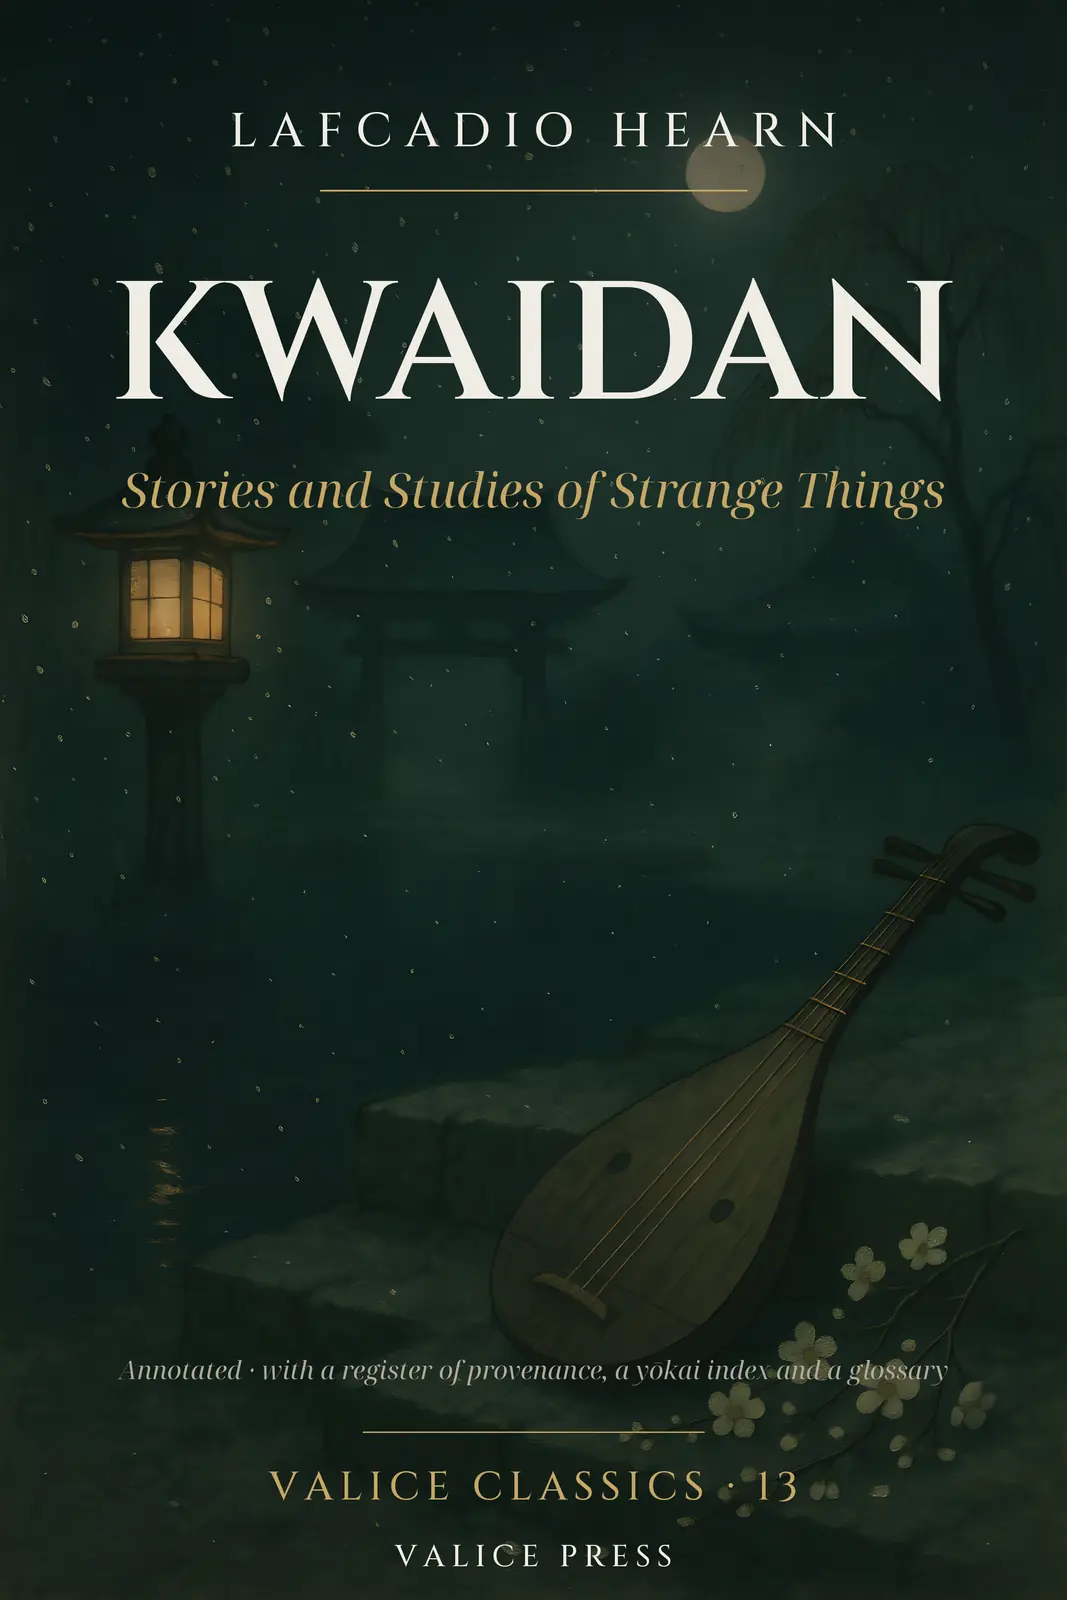
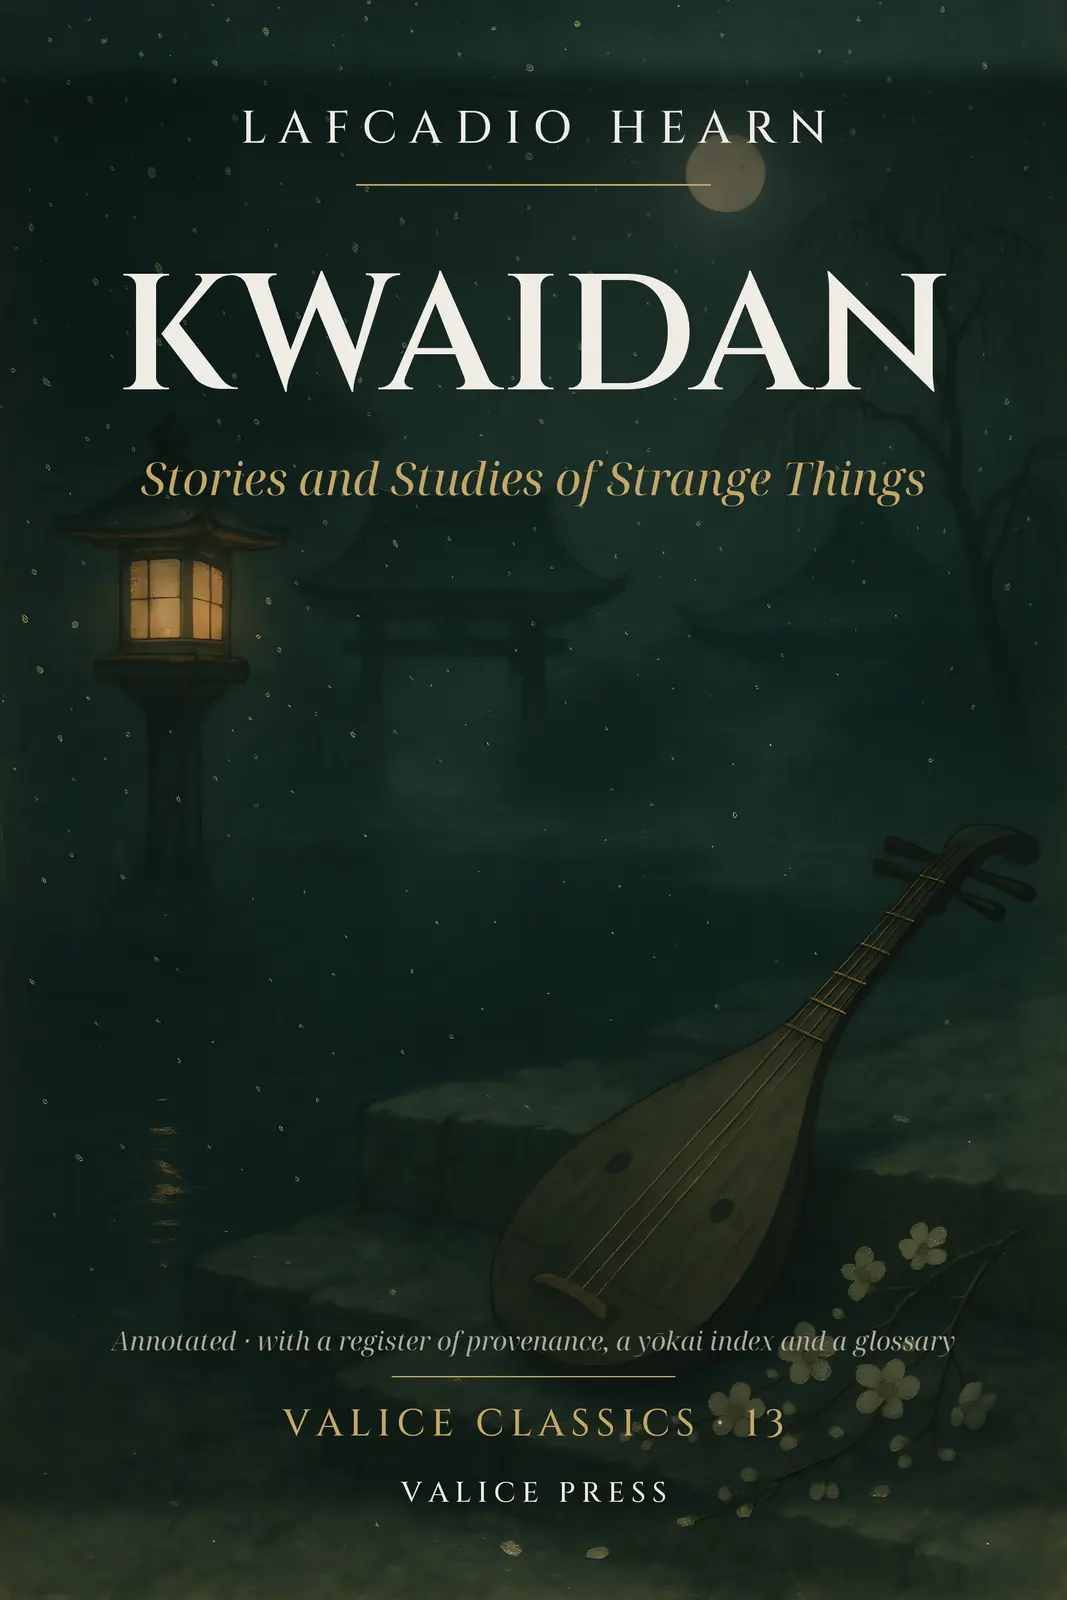
fix(public-domain): PHASE 3 book 1 — close 23 adversarial findings
An independent reviewer was told to prove Kwaidan was not ready and raised 23
defects in half an hour. It was right about nearly all of them.

The P0 was the claim that sells the book. The Register of Provenance said
"four pieces have an origin Hearn states"; he states three. The fourth,
Hi-Mawari, is autobiography and the book's own table said so two pages later —
"Not stated by Hearn". The wrong number was on both back covers, in the printed
introduction, the printed register, the companion sheet, the catalogue row and
the Paddle description, and on the covers it had further decayed into "four
tales", which only reaches twenty if the insect studies are counted as tales.

The worst of the nine P1s lost the imprint into the hardcover fold. The panels
were laid out against the sheet rather than the case, so VALICE PRESS printed a
third of an inch below the bottom fold, on the inside of the boards. That is
COVER_STANDARDS §5's Enigmatica defect word for word — safe area measured from
the trim instead of the outer edge. Panels now compose into a real safe box,
0.716 in from the outer edge and 0.519 in on the spine side.

A Hearn quotation on both covers had a full stop where his comma and continuing
clause should be, closing a sentence he never closed. The quote checker exists
for exactly that and missed it: its record had been written before the build
scripts existed, so the build-script scan had never run, and when it did run it
[…]

diff --git a/src/lib/companions.ts b/src/lib/companions.ts
@@ -1576,9 +1576,10 @@ const KWAIDAN: Companion = {
   bookTitle: "Kwaidan: Stories and Studies of Strange Things",
   state: "book-not-yet-available",
   stateNote:
-    "The Valice edition is built, validated and priced but not yet on sale — " +
-    "creating the payment product is a live write that is held behind a " +
-    "founder action. Everything on this page is free and works today regardless.",
+    "The Valice edition is built, validated and priced, and its payment product " +
+    "exists — what is left is that the edition's own pages have not been deployed " +
+    "yet, so the storefront row is deliberately still held back. Everything on " +
+    "this page is free and works today regardless.",
   intro:
     "Free material for Hearn's seventeen ghost stories and three insect essays: " +
     "the old provinces against the prefectures they became, the creatures named " +

diff --git a/docs/execution/public-domain/PHASE-3-REPORT/01-kwaidan/BOOK_REPORT.md b/docs/execution/public-domain/PHASE-3-REPORT/01-kwaidan/BOOK_REPORT.md
@@ -1,0 +1,208 @@
+# Book 1 — Kwaidan: Stories and Studies of Strange Things
+
+**Valice Classics 13** · Lafcadio Hearn, 1904 · built 2026-09-06 · branch
+`feature/public-domain-phase-3`, **not merged**
+
+## 1 · What it is
+
+The whole of Hearn's *Kwaidan*: seventeen tales, three insect studies, his own notes and
+his own prefatory note, with both plates of the 1904 edition. 138 pages at
+6 × 9. Nothing of Hearn's is cut.
+
+| | |
+|---|---|
+| Source | Project Gutenberg ebook 1210 — a proof-read human transcription, not a scan |
+| Source words printed | 36,053 |
+| Editor words | 9,768 |
+| **Editor share** | **21.02%** against a 20% floor |
+| Pages | 138 (even, as KDP requires) |
+| Claims registered | 23, all verified — one CORRECTED by verification |
+| Quotations checked | 34 — 25 in source, 9 external, **0 not found** |
+
+## 2 · Rights, and two findings that go against the roadmap
+
+**The plates are printed.** The roadmap put Kwaidan's plates under "expected risks":
+*"Kwaidan's Takénouchi plates remain unattributed and are designed out."* That is true of
+the source file, which labels both `[Illustration]` and names nobody. It is not true of the
+artist. Wikipedia's article on the book names Takeuchi Keishū; Wikimedia Commons carries
+Wikidata **Q11545824**, giving his birth as 13 November 1861 and his death as 3 January
+**1942 or 1943**. The uncertainty does not matter: life-plus-seventy expired at the end of
+2012 on the earlier date and 2013 on the later, and the 1904 United States imprint settles
+the US independently. Both plates are reproduced at their true 300 DPI size — 858 × 1000 and
+908 × 1000 px, about three inches across — and are not enlarged beyond it.
+
+**The 1904 introduction is not printed.** The first edition's prefatory matter is two
+pieces and only one is Hearn's:
+
+- Hearn's own note, 154 words, signed **"L. H."**, dated Tōkyō,
+  20 January 1904. **Printed.**
+- A second piece, **677 words** in
+  5 paragraphs, dated **March
+  1904**, on the Russo-Japanese war, quoting Paul Elmer More. **Unsigned in the source, and
+  its author is named in no authority record.** Not printed.
+
+Article 3 says a public-domain text does not clear the layer beside it; Article 4 says GREEN
+is not clearance. A layer whose creator cannot be named has no death year and therefore no
+rights position. The Source Note states the omission and the reasoning on the page, not
+only in a QA file.
+
+## 3 · Source coverage
+
+Phase 2's rule — a build that succeeds while dropping source is a failure — measured rather
+than asserted:
+
+| | |
+|---|---|
+| Body words in the file | 37,076 |
+| Words inside sections | 36,960 (99.69%) |
+| Gap | 116 words — **measured**: 105 inside heading tags, 11 in the contents lists and title page |
+| Boilerplate leaks | **0** — asserted on every build |
+| Accounting | 36,909 − 677 (dropped introduction) − 179 (title page, contents, three container headings) = **36,053 printed** |
+
+17 stories (23,908 w), 3 studies (9,826 w),
+17 note sections (2,165 w).
+
+## 4 · What the apparatus adds
+
+The introduction runs 2,937 words, above the constitution's 1,500 minimum.
+
+- **A head-note before every one of the 20 pieces.**
+- **The Register of Provenance** — the thing no other edition has. Hearn's note says *most*
+  of the tales came from old Japanese books and names five; it never says which tale came
+  from which. Four pieces have a stated origin (one Chinese, one told him by a farmer of
+  Chōfu, one that happened to him, one that is plainly autobiography). **Sixteen are shown
+  as open** rather than assigned to one of his five books on a guess.
+- **A glossary of 45 terms** — every Japanese word he italicises and leaves unexplained.
+- **The Yōkai Register**, 15 entries, naming the creatures by what folklore calls them.
+  "Mujina" is filed under *noppera-bō*: the animal in the title never appears.
+- **A gazetteer of the ten old provinces**, which catches an error the text has carried for
+  a century — it puts Niigata in **Echizen**, and Niigata is in **Echigo**. Hearn's sentence
+  is left exactly as he wrote it and the reader is told.
+- **A chronology**, **five editorial notes** inside Hearn's own, **what has been established
+  since 1904**, a **source note**, and a **28-entry index**.
+
+Article 6's three registers are kept apart: the Spencerian ant sociology and the racial
+explanations are marked as not sustained; the mosquito identification — *Culex fasciatus*,
+now *Aedes aegypti* — is marked as correct, because it is.
+
+## 5 · The formats
+
+| | Paperback | Hardcover | Ebook |
+|---|---|---|---|
+| Pages | 138 | 138 | 138 pp PDF + reflowable EPUB |
+| Trim | 6 × 9 in | 6 × 9 in interior | — |
+| Spine | 0.3108 in (safe 0.186) | **0.5 in** (safe 0.375) | — |
+| Full wrap | 12.5608 × 9.25 in | **14.075 × 10.417 in** | — |
+| Geometry from | KDP calculator, 138 pp row | KDP calculator, 138 pp row | — |
+| List | $14.99 | $29.99 | $8.99 |
+
+Both wrap geometries were read off the official KDP Print Cover Calculator on 2026-09-06 and
+stored in `COMMON-AREA/covers/kdp_geometry.json`. Nothing is interpolated.
+
+## 6 · The cover
+
+Artwork generated with **gpt-image-1** (1024 × 1536, quality high, $0.2496, recorded in
+`valice-house/cost/ledger.jsonl`). **The prompt contains no text and the model rendered
+none**; the title, author, series line and imprint are set in the layout in Cinzel and Noto
+Serif Display, which is COVER_STANDARDS §2.2.
+
+| | |
+|---|---|
+| Native artwork ppi at printed panel width | **167.2** — recorded, not dressed up as 300 |
+| Files | true 300 DPI rasters, 4× Real-ESRGAN then LANCZOS |
+| 150 px thumbnail contrast | 1.0 |
+| Title band | 24.0% of cover height — below the 25% proxy because KWAIDAN is one word; thumbnail legibility measured instead |
+| **Barcode box** | **clear — 0 bright pixels** in the 2.0 × 1.2 in box. Reserved in the composition, not repaired afterwards |
+| ICC | sRGB embedded |
+
+## 7 · Ebook and companion
+
+EPUB 3, **EPUBCheck 0 fatals / 0 errors / 0 warnings**, 37 documents,
+36 nav entries, both plates included. The cover is declared three ways —
+`properties="cover-image"`, a legacy `<meta name="cover">`, and `cover.xhtml` first in the
+spine — because Phase 1 shipped five EPUBs with **no cover at all**.
+
+The companion is four printable sheets at `valicepress.com/companion/kwaidan`: the Provinces
+card, the Yōkai cards, the Register of Provenance, and a sheet for playing
+*hyakumonogatari kaidankai* with seventeen tales instead of a hundred. The printed QR is
+2.55 in — **33.7% of the usable page height**,
+against a 25% floor — at 385.9 effective DPI, and it was decoded
+independently with OpenCV: `https://valicepress.com/companion/kwaidan`, which matches the printed URL.
+
+## 8 · Commerce
+
+| | |
+|---|---|
+| Paddle product | `pro_01m1v4n7tthzcxjvp08fzkkt5t` |
+| Paddle price | `pri_01m1v4n80k6g2tba6wt8882ehf` — $8.99, **live** |
+| Tax category | `standard`, not `ebooks` — the account is not approved. FOUNDER **F-029** |
+| R2 masters | `books/kwaidan/master/v1/master.pdf` and `.epub` in `bookstore-masters-dev` |
+| R2 verified | read back and hashed: **byte-identical** to the local files |
+| Storefront | `public/images/books/kwaidan.webp`, 1067 × 1600, 46 KB |
+| Catalogue | row added; `websiteStatus: "draft"` **on purpose** — see below |
+
+**Why the row is still draft.** The Paddle product exists and the ebook format is marked
+available, but Phase 3 is not merged and must not be. Publishing the row would write a
+book into the production database whose page code, cover and companion sheets are not
+deployed, and the reader would meet broken images and a 404 companion. Database-write
+authorisation is not deployment authorisation, and this is where the two separate.
+
+## 9 · What is NOT done
+
+- **No KDP upload.** No ASIN, no ISBN, no review, no rank appears anywhere.
+  `KDP/KDP_UPLOAD_HANDBOOK.html` names every file and field for both print formats.
+- **Gate 2 unsigned.** Prepared, with the two findings above set out for ratification —
+  FOUNDER **F-030**.
+- **Not deployed.** Deliberately, per §44.
+
+## 10 · The adversarial review
+
+An independent reviewer, which did not write the book, was given one instruction: **prove
+this book is not ready**. It raised **23 defects** in
+about half an hour, and it was right about nearly all of them. The book that shipped is not
+the book it reviewed.
+
+**The P0.** The edition's headline claim — the thing that makes it worth buying — said
+*"four pieces have an origin Hearn states, and sixteen do not"*. Hearn states an origin for
+**three**. The fourth, *Hi-Mawari*, is plainly autobiography and the book's own table said
+so two pages later: *"Not stated by Hearn"*. The wrong number was on the paperback back
+cover, the hardcover back cover, the printed introduction, the printed register, the
+companion sheet, the catalogue row and the Paddle description — seven surfaces, and on the
+covers it had further degraded into "four **tales**", which only adds to twenty if the three
+insect studies are counted as tales. All seven are corrected.
+
+**The worst of the nine P1s.** The hardcover laid its type out against the sheet instead of
+against the case, so *VALICE PRESS* sat **0.23–0.36 in below the bottom fold** — printed on
+the inside of the boards, invisible on the finished book. This is COVER_STANDARDS §5's
+recorded Enigmatica defect, verbatim: *"safe area measured from the trim instead of the
+outer edge"*. The panels now compose into a real safe box, inset **0.716 in** from the outer
+edge — the exact figure §5 names — and **0.519 in** on the spine side to clear the hinge.
+
+**The others worth naming.** A Hearn quotation on both back covers had a full stop
+substituted for his comma and continuing clause, closing a sentence he did not close, inside
+quotation marks, with no ellipsis. The quote checker exists to catch precisely that and did
+not, because the record had been produced before the build scripts existed and the
+build-script scan had never run; the checker also drowned its real finding in 32 false
+positives on HTML attributes. Both are fixed and the record is now reproducible. The
+apparatus claimed Hearn *"identifies"* his mosquito as *Culex fasciatus*; he wrote that it
+*"much resembles"* what Howard calls *Stegomyia fasciata*, and named the Stegomyia first —
+converting his hedge into a firm claim is exactly what Article 6 forbids, and C-008 is
+marked **VERIFIED — CORRECTED** rather than quietly rewritten. A sentence saying Hearn was
+right about mosquitoes *"forty years before it was fashionable"* was false and contradicted
+the book's own next section; it is cut. Nine checkable statements were not in
+`CLAIMS.jsonl`; seven are now registered, and two of those turned out to be **wrong** —
+"twenty years as a newspaperman" was fifteen, and "two provinces down the coast" was three.
+
+**What was not fixed, and why.** Two findings are recorded as Founder decisions rather than
+changed by the factory: the cover is a painted scene where COVER_STANDARDS gives the series
+a typographic identity, and its title band is 23.7% against a 25% rule that a one-word title
+cannot meet without printing KWAI over DAN. Both are **F-031**. One finding — a blank final
+leaf carrying a running head — stopped applying when the page count settled at 138, and the
+safeguard that detects it was kept anyway.
+
+**What the reviewer verified as sound** is worth recording too: no source text is truncated
+anywhere (it re-parsed the file independently and swept 12-word shingles across all 37,000
+printed words), the dropped introduction is genuinely absent from both formats, the plates
+are byte-identical to the source scan and placed at exactly the size the rights note claims,
+the QR decodes to the printed URL, the barcode zone is genuinely empty, and there is no
+cross-book leakage anywhere in the tree.

diff --git a/docs/execution/public-domain/FOUNDER.md b/docs/execution/public-domain/FOUNDER.md
@@ -13,6 +13,31 @@ output while other work continues · **P2** is an inconvenience and never stops 
 
 ## Open
 
+### F-031 · P2 · Two cover decisions for Kwaidan that are yours, not the factory's
+
+Both are recorded in `project_config.json → covers` and neither blocks anything; they are
+here because COVER_STANDARDS makes them Founder decisions and the factory should not make
+them by drifting.
+
+1. **The series idiom.** §1 gives Valice Classics as *"emerald/black, Noto Serif Display,
+   typographic + one fine engraved device"*, and Article 11 adds that the typographic cover
+   is the identity rather than a fallback. This cover keeps the emerald/black and the Noto
+   Serif Display, and sets every word in the layout — but where the engraved device would
+   be, there is a full-bleed painted night scene. Phases 1 and 2 already moved the series to
+   pictorial covers using your own supplied artwork, so this follows them rather than
+   breaking new ground; §2.6 still says a series identity is yours to approve.
+2. **The 25% title rule.** §2.1 asks for a title band of at least a quarter of the cover
+   height. Measured: **23.7%**. KWAIDAN is one word and cannot fill a quarter of a cover the
+   way two stacked lines do, and stacking it would print KWAI over DAN. The rule's purpose —
+   legibility at thumbnail size — is measured separately and the 150 px contrast is **1.0**,
+   the best of any cover this press has made. Recorded as a shortfall rather than closed by
+   making the cover worse.
+
+Either waive them on the record or say what you would rather have.
+
+---
+
+
 ### F-028 · RESOLVED 2026-09-06 · The six missing Paddle products now exist
 
 **This closes F-019, F-022, F-024, F-026 and F-027.** Three sessions had stopped at the
